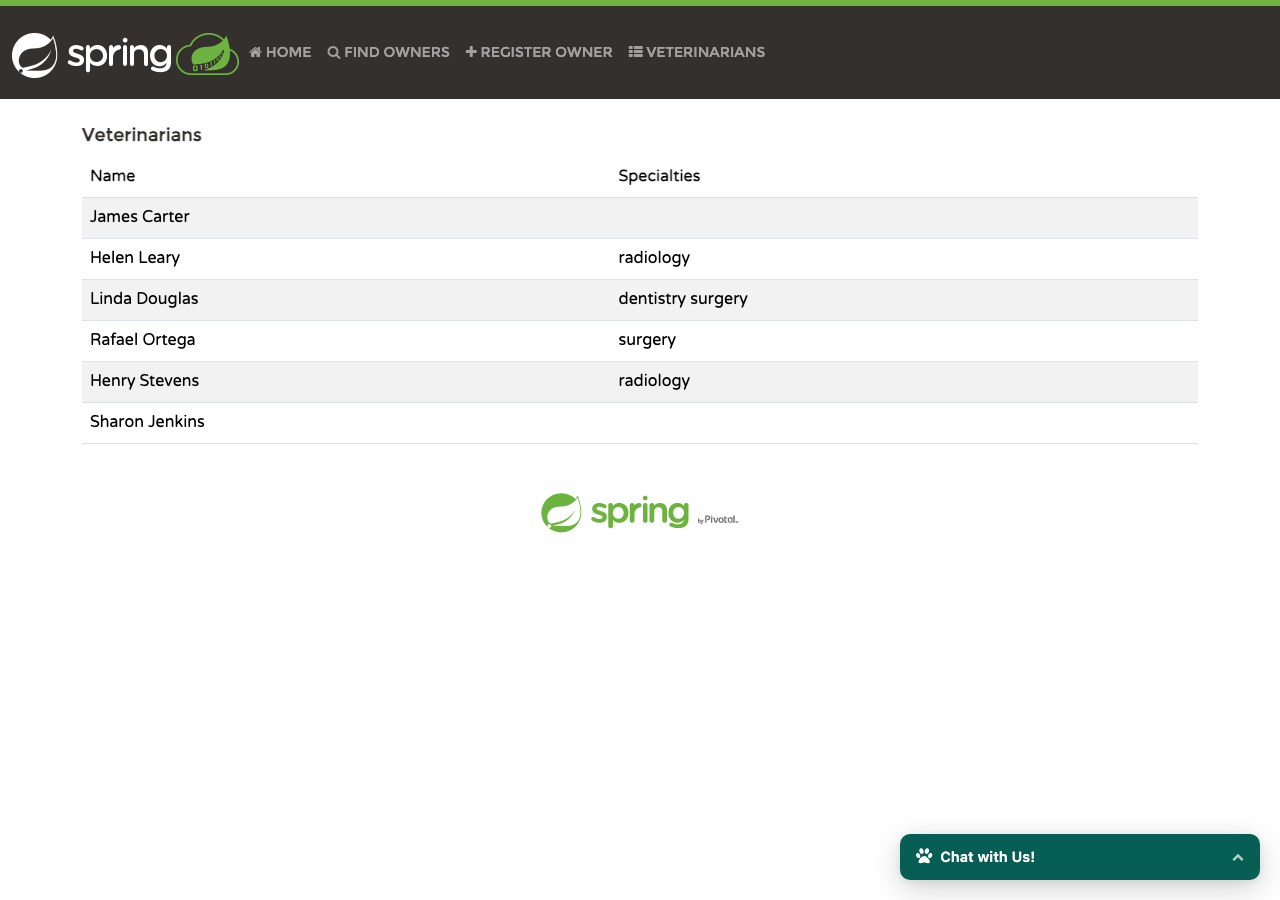
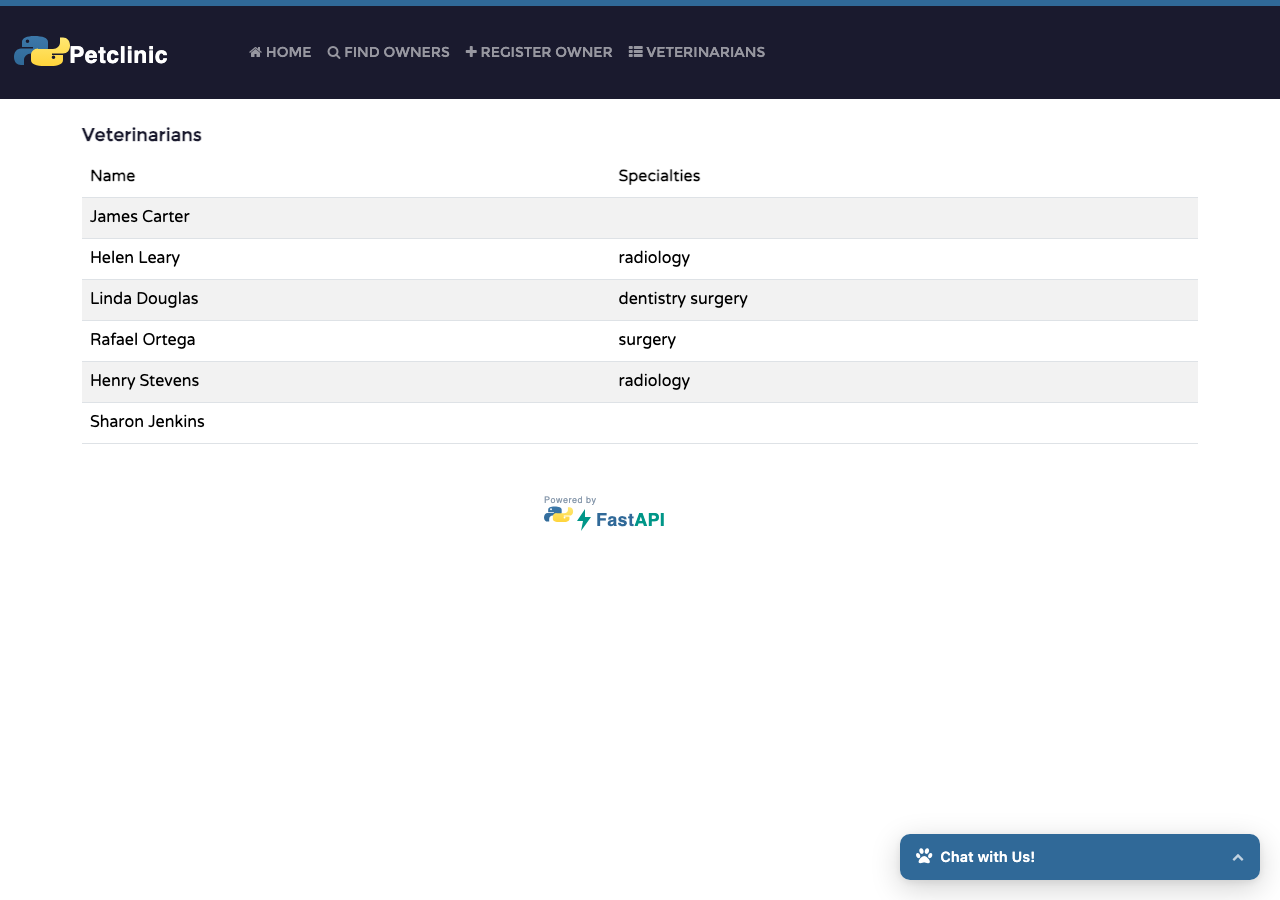
Rebrand from Spring to Python/FastAPI theme
- Replace Spring logos with Python-themed SVG logos (navbar, footer, favicon)
- Add Python pets banner (snake + cat + dog) for welcome page
- Update CSS: Spring green (#6db33f) -> Python blue (#306998),
  dark brown -> dark navy, hover text -> Python yellow (#FFD43B)
- Update chat widget to Python blue color scheme
- Update templates: Spring/Pivotal branding -> Python/FastAPI
- Fix static files mount path from / to /static
- Recapture all 7 screenshots with fully styled Python theme

Changed region(s): [[0.0, 0.0, 1.0, 0.1244], [0.6875, 0.9022, 1.0, 0.9956], [0.4062, 0.5289, 0.5625, 0.5911]]

diff --git a/api_gateway/static/css/petclinic.css b/api_gateway/static/css/petclinic.css
@@ -28,7 +28,7 @@ body, h1, h2, h3, p, input {
   margin: 0;
   font-weight: 400;
   font-family: "varela_roundregular", sans-serif;
-  color: #34302d;
+  color: #1a1a2e;
 }
 
 h1 {
@@ -67,11 +67,11 @@ body {
   padding-top: 0;
 }
 
-/* ── Navbar (Spring style) ─────────────────────────────── */
+/* ── Navbar (Python/FastAPI style) ────────────────────── */
 
 .navbar {
-  border-top: 6px solid #6db33f;
-  background-color: #34302d;
+  border-top: 6px solid #306998;
+  background-color: #1a1a2e;
   margin-bottom: 0;
   border-bottom: 0;
   border-left: 0;
@@ -79,7 +79,7 @@ body {
 }
 
 .navbar a.navbar-brand {
-  background: url("/static/images/spring-logo-dataflow.png") -1px -1px no-repeat;
+  background: url("/static/images/python-petclinic-logo.svg") -1px -1px no-repeat;
   margin: 12px 0 6px;
   width: 229px;
   height: 46px;
@@ -92,7 +92,7 @@ body {
   display: block;
   width: 229px;
   height: 46px;
-  background: url("/static/images/spring-logo-dataflow.png") -1px -48px no-repeat;
+  background: url("/static/images/python-petclinic-logo.svg") -1px -48px no-repeat;
   opacity: 0;
   transition: opacity 0.12s ease-in-out;
 }
@@ -120,8 +120,8 @@ body {
 }
 
 .navbar li:hover > a {
-  color: #eeeeee;
-  background-color: #6db33f;
+  color: #FFD43B;
+  background-color: #306998;
 }
 
 .navbar-toggler {
@@ -139,7 +139,7 @@ body {
 
 @media (max-width: 991.98px) {
   .navbar a.navbar-brand {
-    background: url("/static/images/spring-logo-dataflow-mobile.png") 0 0 no-repeat;
+    background: url("/static/images/python-petclinic-logo-mobile.svg") 0 0 no-repeat;
     width: 148px;
     height: 50px;
     margin: 4px 0;
@@ -148,7 +148,7 @@ body {
   .navbar a.navbar-brand span {
     width: 148px;
     height: 50px;
-    background: url("/static/images/spring-logo-dataflow-mobile.png") 0 -50px no-repeat;
+    background: url("/static/images/python-petclinic-logo-mobile.svg") 0 -50px no-repeat;
   }
 
   .navbar li > a,
@@ -190,7 +190,7 @@ footer hr {
 
 /* Header */
 #chatbox-header {
-  background: #075E54;
+  background: #306998;
   color: #fff;
   padding: 0.75rem 1rem;
   cursor: pointer;
@@ -278,7 +278,7 @@ footer hr {
 
 .chat-bubble.user {
   align-self: flex-end;
-  background: #dcf8c6;
+  background: #e8f0fe;
   color: #212529;
   border-bottom-right-radius: 0.25rem;
 }
@@ -346,8 +346,8 @@ footer hr {
 }
 
 #chatbox-input:focus {
-  border-color: #075E54;
-  box-shadow: 0 0 0 2px rgba(7, 94, 84, 0.15);
+  border-color: #306998;
+  box-shadow: 0 0 0 2px rgba(48, 105, 152, 0.15);
 }
 
 #chatbox-input::placeholder {
@@ -355,7 +355,7 @@ footer hr {
 }
 
 #chatbox-send-btn {
-  background: #075E54;
+  background: #306998;
   color: #fff;
   border: none;
   border-radius: 50%;
@@ -371,7 +371,7 @@ footer hr {
 }
 
 #chatbox-send-btn:hover {
-  background: #128C7E;
+  background: #244d70;
   transform: scale(1.05);
 }
 

diff --git a/api_gateway/templates/base.html b/api_gateway/templates/base.html
@@ -7,7 +7,7 @@
 
   <!-- Bootstrap 5 CSS -->
   <link rel="stylesheet" href="https://cdn.jsdelivr.net/npm/bootstrap@5.3.3/dist/css/bootstrap.min.css"
-        integrity="sha384-QWTKZyjpPEjISv5WaRU9OFeRpok6YcnS/1p8PVKlRt8nhZprml+UnBnQtP8RGUZ" crossorigin="anonymous">
+        integrity="sha384-QWTKZyjpPEjISv5WaRU9OFeRpok6YctnYmDr5pNlyT2bRjXh0JMhjY6hW+ALEwIH" crossorigin="anonymous">
 
   <!-- Font Awesome 4 -->
   <link rel="stylesheet" href="https://cdn.jsdelivr.net/npm/font-awesome@4.7.0/css/font-awesome.min.css">
@@ -68,7 +68,7 @@
   <footer class="container mt-5 mb-3">
     <div class="row">
       <div class="col-12 text-center">
-        <img src="/static/images/spring-pivotal-logo.png" alt="Sponsored by Pivotal"/>
+        <img src="/static/images/python-fastapi-logo.svg" alt="Powered by Python &amp; FastAPI" style="max-width: 200px; height: auto;"/>
       </div>
     </div>
   </footer>

diff --git a/api_gateway/templates/welcome.html b/api_gateway/templates/welcome.html
@@ -4,7 +4,7 @@
 
 {% block content %}
 <div class="text-center my-5">
-  <h1>Welcome to Petclinic</h1>
-  <img src="/static/images/pets.png" alt="Petclinic pets" class="img-fluid mt-4" style="max-width: 500px;">
+  <h1>Welcome to Python Petclinic</h1>
+  <img src="/static/images/python-pets-banner.svg" alt="Python Petclinic" class="img-fluid mt-4" style="max-width: 500px;">
 </div>
 {% endblock %}

diff --git a/api_gateway/main.py b/api_gateway/main.py
@@ -53,7 +53,7 @@ def create_app() -> FastAPI:
 
     # --- Static files (SPA) — must be last so catch-all doesn't shadow API routes ---
     if _STATIC_DIR.is_dir():
-        app.mount("/", StaticFiles(directory=str(_STATIC_DIR), html=True), name="static")
+        app.mount("/static", StaticFiles(directory=str(_STATIC_DIR)), name="static")
 
     logger.info("API Gateway configured on port {}", settings.service_port)
     return app
